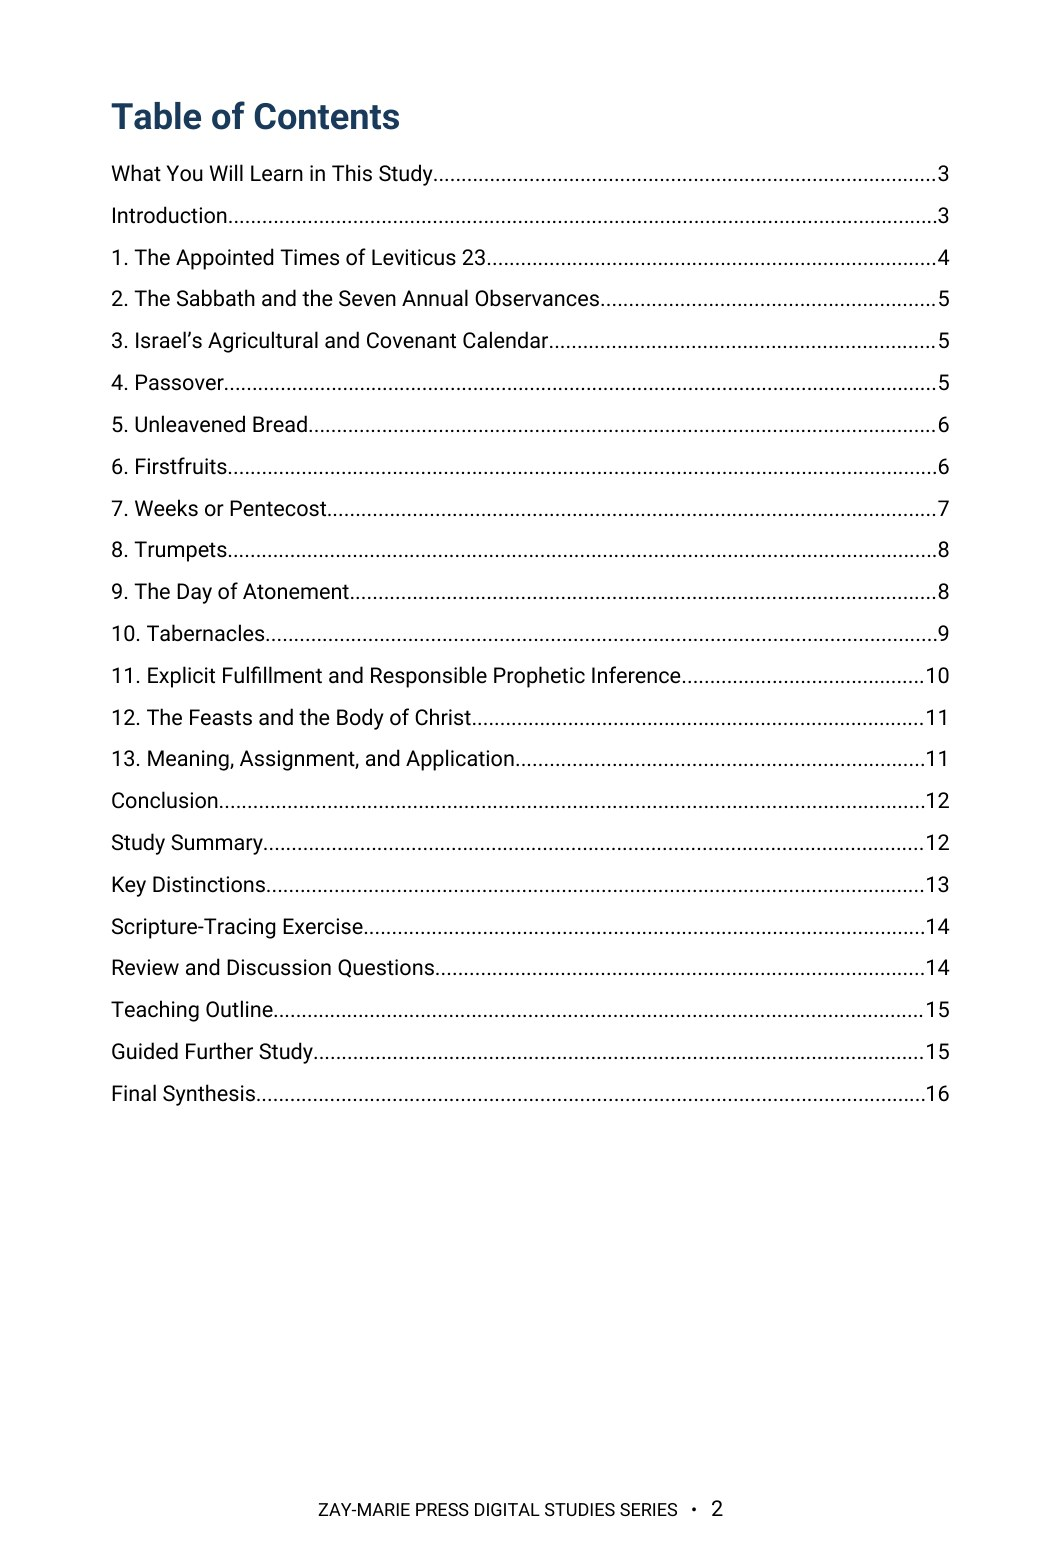
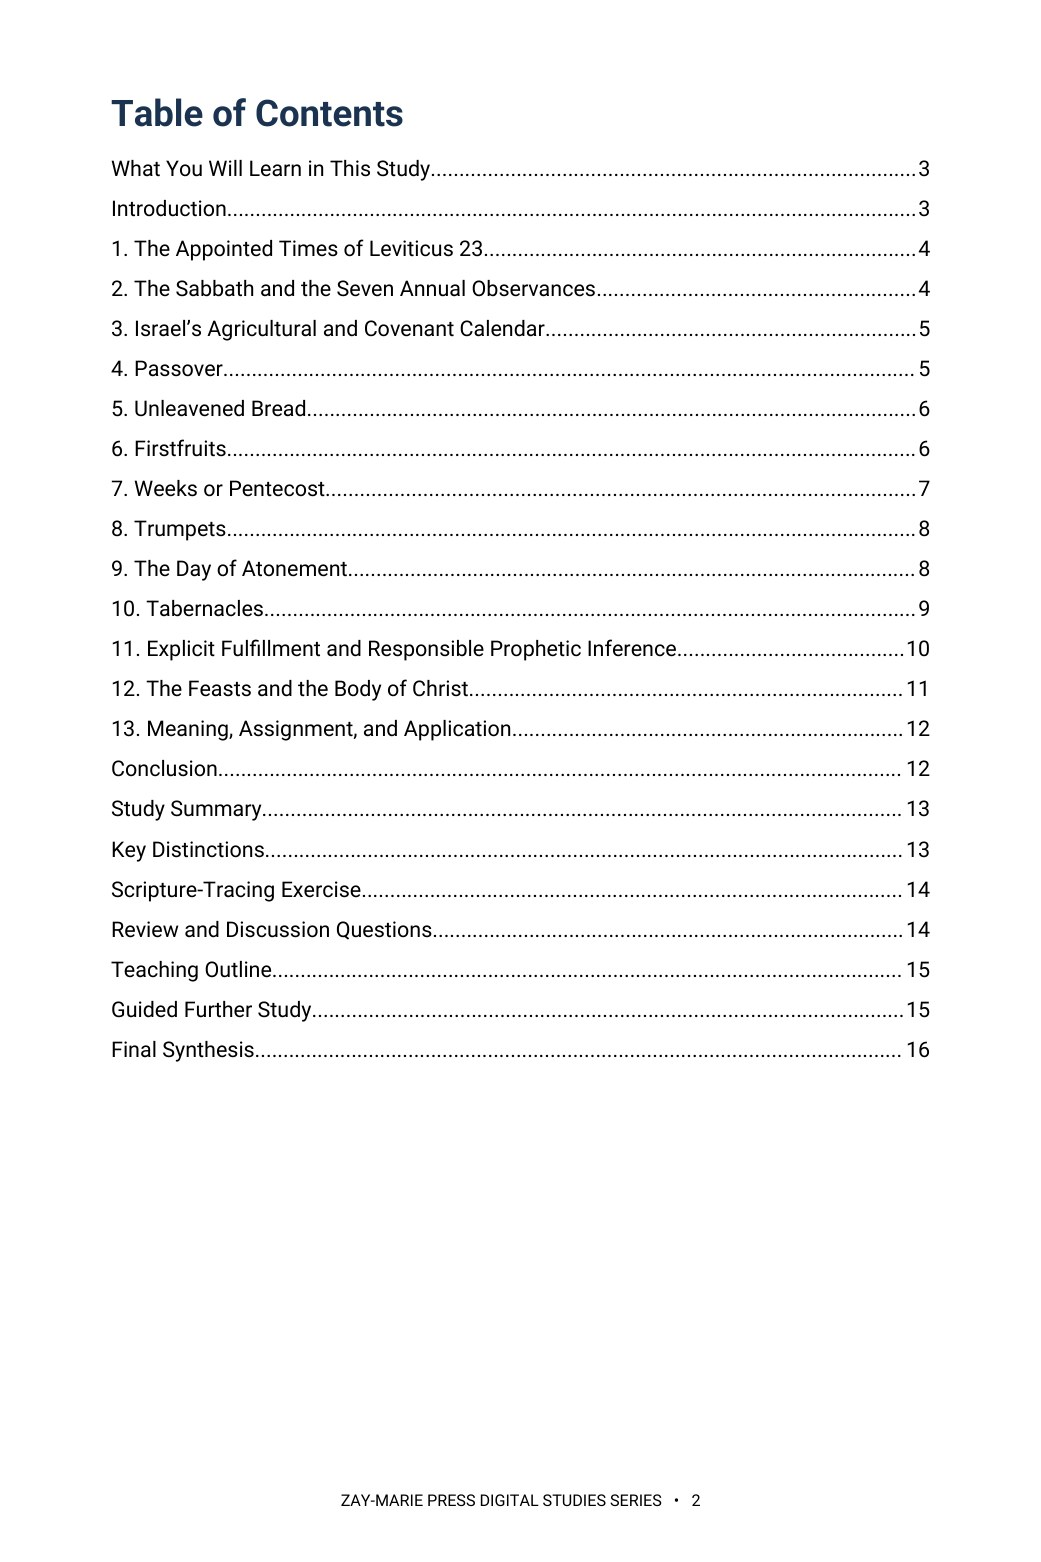
Study 27: rebuilt preview pages and trackers for Roboto 10 pt build on current page (16 pages)
Claude-Session: https://claude.ai/code/session_01HC7bs9KYP2scp4hCL6DkTp

diff --git a/CLAUDE.md b/CLAUDE.md
@@ -23,7 +23,7 @@ These are kept in the repo at `controlling-documents/` and are the current versi
 - As of v1.50 (publisher directive, 2026-10-03), the **What You Will Learn in This Study** section is always bulleted, never set as running paragraphs, written into this file in the same pass (Master Standard Section 3 item 4, Section 6 structure line, Section 22): a list of bullet points, each describing one process, textual marker or interpretive discipline the reader will practice (Section 17 still governs what they may say); at most one short lead-in line may stand above the bullets (for example, “By the end of this study, you should be able to:”); the Study Goal callout and the Study Outline keep their own forms. It governs every new study and every study rebuilt or retrofitted from now on; earlier studies take it when reopened or when the publisher directs. In every study check (Step 1), report whether the section is bulleted. First applied to Study 43.
 **`controlling-documents/Digital_Studies_Relationship_Map_v1.39.md`** — records each study's distinct subject, its related studies, the eight priced six-study collections, the Paul's Missionary Journeys cross-reference map, and the five primary catalog categories (currently version 1.39, covers Studies 1–71; update it as new studies publish, bump the version number, rename the file to match, and log the change in its own version-history table — mirroring the Master Standard's `_vX.Y` filename convention). Check a proposed topic against it before recommending or writing a new study. (2026-09-28: the file was missing from this repo despite this note referencing it; replaced from the publisher's copy and bumped v1.15→v1.25 in the same pass. If this note ever again points to a version not present under `controlling-documents/`, ask the publisher for a copy rather than proceeding without the check.)
 - **`controlling-documents/Digital_Studies_Category_Standard_v1.1.md`** — FINAL and binding (publisher, 2026-10-01): the rules for the five primary catalog categories (Foundations, Israel & Prophecy, Body of Christ, Passages, Doctrinal Themes), the ordered decision procedure for new studies, the precedents, all 71 fixed assignments, and the cover-label form for each category. Read it before placing any card or cover label. Do not ask the publisher where a study belongs; apply the procedure and state the result. Only the publisher changes a ruling; then bump this Standard's version and filename, re-letter the cover, and update the Relationship Map.
-- **`controlling-documents/Doctrinal_Upgrade_Retrofit_Plan_v1.109.md`** — working tracker for retrofitting Studies 1–59 to the 2026-10-02 doctrinal upgrade (Framework/PAM v1.1, Master Standard v1.40, Rules 7–17): withdrawn-wording search keys, impact tiers, waves and the per-study method. Read it before continuing the retrofit in any session; update status, bump the version and rename the file as work proceeds.
+- **`controlling-documents/Doctrinal_Upgrade_Retrofit_Plan_v1.110.md`** — working tracker for retrofitting Studies 1–59 to the 2026-10-02 doctrinal upgrade (Framework/PAM v1.1, Master Standard v1.40, Rules 7–17): withdrawn-wording search keys, impact tiers, waves and the per-study method. Read it before continuing the retrofit in any session; update status, bump the version and rename the file as work proceeds.
 - **`controlling-documents/Doctrinal_Packet_Standard_v0.3.md`** — Doctrinal Packet Standard (DRAFT; §7 approved). Governs the separate Doctrinal Packets product strand (5-page interpretive PDFs per Bible book — a print-friendly cover as page 1 plus 4 content pages, $2.99, KJV, pilot: Genesis, live at `packet-genesis.html`, hub `doctrinal-packets.html`; site pages say "5 Pages", cover styles live in `packets.css`, Old Testament blue and New Testament soft pale green, hub listed in Bible order). **Preview rule (publisher directive, 2026-09-29, packets only):** previews show about one page's worth in two cropped views (top of page 1 through the anchor texts; the chart section) — never the exegesis, architecture, Mystery contrast, logic chain, outline, or closing. Master Standard §16/§17 still govern Digital Studies. Bump the version and rename the file as the Standard is finalized.
 - **`controlling-documents/Preview_Page_Spoiler_Retrofit_Audit_v1.4.md`** — working tracker for the Studies 1–60 preview-page conclusion-spoiler retrofit (see the section below). Read it before continuing that audit in any session; update its status fields and changelog, bump the version, and rename the file to match as the audit proceeds — same `_vX.Y` convention as the other controlling documents. As of v1.1, the website-side half was DONE: all 60 studies' "What You'll Study" text was judged against the rule (methodology documented in the file) and 22 points across 11 studies were rewritten and pushed; an unrelated Study 22 content bug (Study 21's content had leaked into it) was also found and fixed. As of v1.2, the publisher supplied Studies 1–60's interior production PDFs and the interior-PDF half was also surveyed (read-only): 10 studies (37, 41, 45, 47, 48, 49, 51, 52, 53, 54) were found to have at least one interior "What You Will Learn" violation, 50 studies were confirmed compliant, and the orphaned `assets/study-45-sanctification-under-grace.docx` (removed from the repo per the publisher in v1.0) was confirmed word-for-word identical to Study 45's actual production interior PDF content. As of v1.3, the publisher supplied editable DOCX sources for all 10 violating studies; all 15 violating points were rewritten and approved, delivered as corrected final PDFs, and — along the way — a second defect was found and fixed (Studies 47 and 48's source DOCX still had an unintegrated cover placeholder despite both being long-published live with real covers; fixed by inserting the existing approved cover art). The website's "What You Will Learn" preview image (`study-NN-page-3.jpg`) was regenerated from the corrected content for all 10 studies and pushed to `main` (commit `cea1859`), verified against a fresh clone. **The website side of this audit is now fully compliant for all 60 studies.** Outstanding: the publisher's purchasable interior PDF files themselves have corrected versions delivered, but distribution to existing purchasers was decided by the publisher on 2026-09-29: silent swap of the files behind the existing downloads, no reissue notice (recorded in the v1.4 changelog entry; the product files are not in this repo).
 

diff --git a/controlling-documents/Doctrinal_Upgrade_Retrofit_Plan_v1.110.md b/controlling-documents/Doctrinal_Upgrade_Retrofit_Plan_v1.110.md
@@ -202,3 +202,4 @@ Working tracker for correcting published studies to the Framework/PAM v1.1, Mast
 - v1.107 (2026-10-04): Study 22 rebuilt in Roboto at 10 pt on the current page, 15 pages (was 16 on the old 432×648 page). WYWL opening paragraph removed and lead-in added (seven bullets already process lines, kept); 'The Framework assigns John 14…' reworded to 'John 14 belongs to the Prophecy Program…'; overlap and Rule 17 sentences added to section 6; Teaching Outline numbered; four content tables kept. Previews 2, 3 and 4 re-rendered at 1041×1562; site.js 22:15; study page 15 pages.
 - v1.108 (2026-10-04): Study 24 rebuilt in Roboto at 10 pt on the current page, 16 pages (unchanged from the old 432×648 build). WYWL opening paragraph removed and lead-in added (eight bullets already process lines, kept); Framework wording removed from the WYWL Hebrews bullet and the section 10 Hebrews sentence (now the reader-facing covenant sentence); two 'Acts Overlap framework' phrases reworded; section 10 numbered; overlap and Rule 17 sentences added; Teaching Outline numbered; typo fixed.
 - v1.109 (2026-10-04): Study 25 rebuilt in Roboto at 10 pt on the current page, 17 pages (unchanged from the old 432×648 build). WYWL opening paragraph removed and lead-in added (eight bullets already process lines, kept); three 'The Framework…' sentences and two 'framework' phrases reworded; Rule 19 sentence added in section 3 (publisher-approved: baptism is a program requirement, not a ground of salvation or a Body requirement); overlap, Rule 17, Rule 11 and Rule 18 short-form sentences added; stray duplicated Review-question paragraph in Scripture-Tracing removed; Teaching Outline numbered.
+- v1.110 (2026-10-04): Study 27 rebuilt in Roboto at 10 pt on the current page, 16 pages (unchanged from the old 432×648 build). WYWL lead-in standardized (eight bullets already process lines, kept); 'revealed framework' reworded; Acts 28 wording conformed (nationally suspended—not canceled, transferred or absorbed); overlap and Rule 17 sentences added after the Pentecost paragraph; reader-facing Hebrews sentence added after the Day of Atonement/Hebrews paragraph; Teaching Outline numbered.

diff --git a/controlling-documents/Digital_Studies_PAM_Audit_v1.204.md b/controlling-documents/Digital_Studies_PAM_Audit_v1.204.md
@@ -433,3 +433,4 @@ Study 15 PDF not yet supplied. Typography: none of Studies 2, 3, 6, 8 is in EB G
 - v1.201 (2026-10-04): Study 22 rebuilt in Roboto at 10 pt on the current page, 15 pages; Framework wording removed from John 14 sentence; overlap and Rule 17 sentences added; Teaching Outline numbered (see Retrofit Plan v1.107).
 - v1.202 (2026-10-04): Study 24 rebuilt in Roboto at 10 pt on the current page, 16 pages; Framework wording removed (Hebrews sentence now reader-facing); overlap and Rule 17 sentences added; Teaching Outline numbered (see Retrofit Plan v1.108).
 - v1.203 (2026-10-04): Study 25 rebuilt in Roboto at 10 pt on the current page, 17 pages; Framework wording removed; Rule 19, overlap, Rule 17, Rule 11 and Rule 18 sentences added; Teaching Outline numbered (see Retrofit Plan v1.109).
+- v1.204 (2026-10-04): Study 27 rebuilt in Roboto at 10 pt on the current page, 16 pages; Acts 28 wording conformed; overlap, Rule 17 and Hebrews sentences added; Teaching Outline numbered (see Retrofit Plan v1.110).
